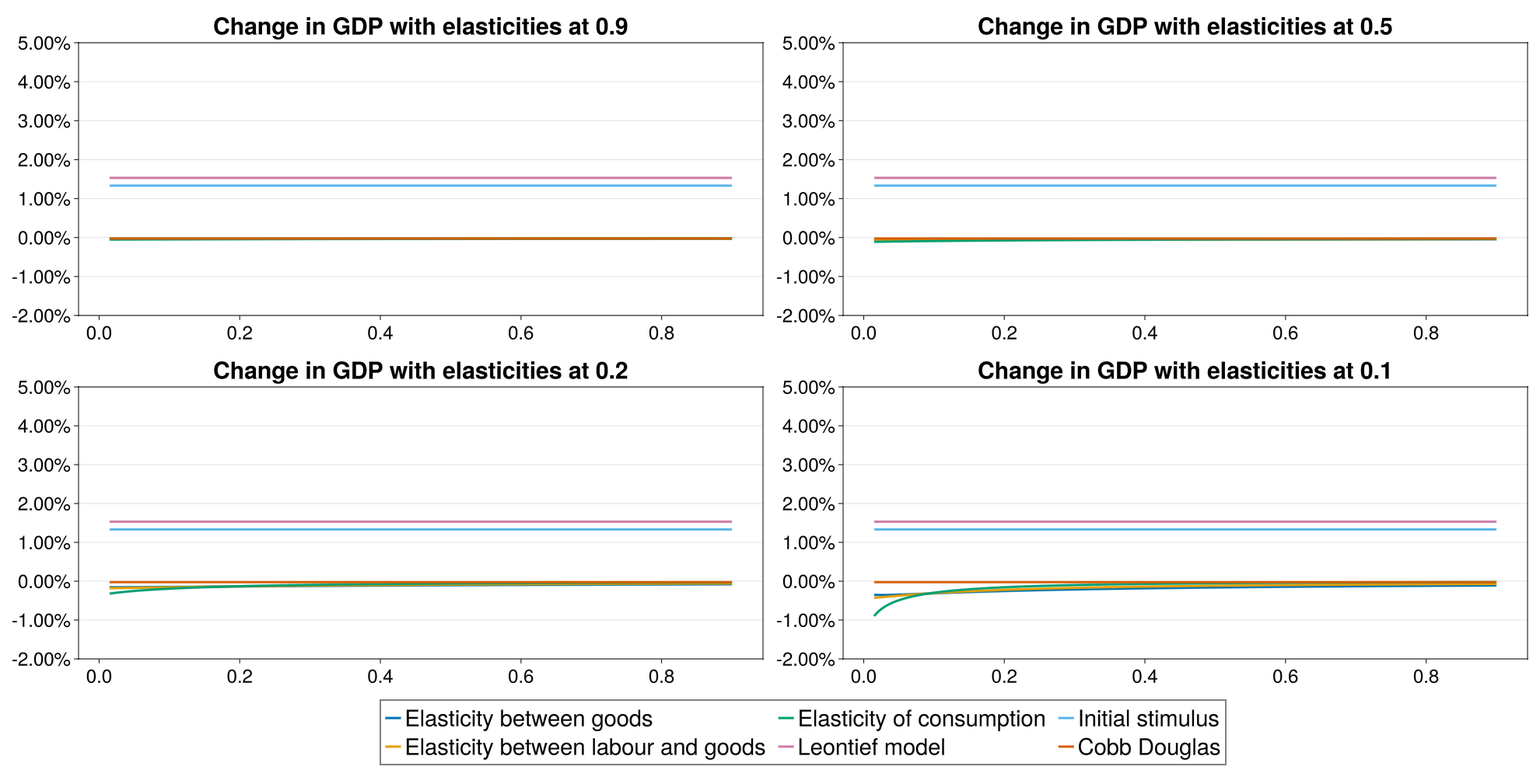
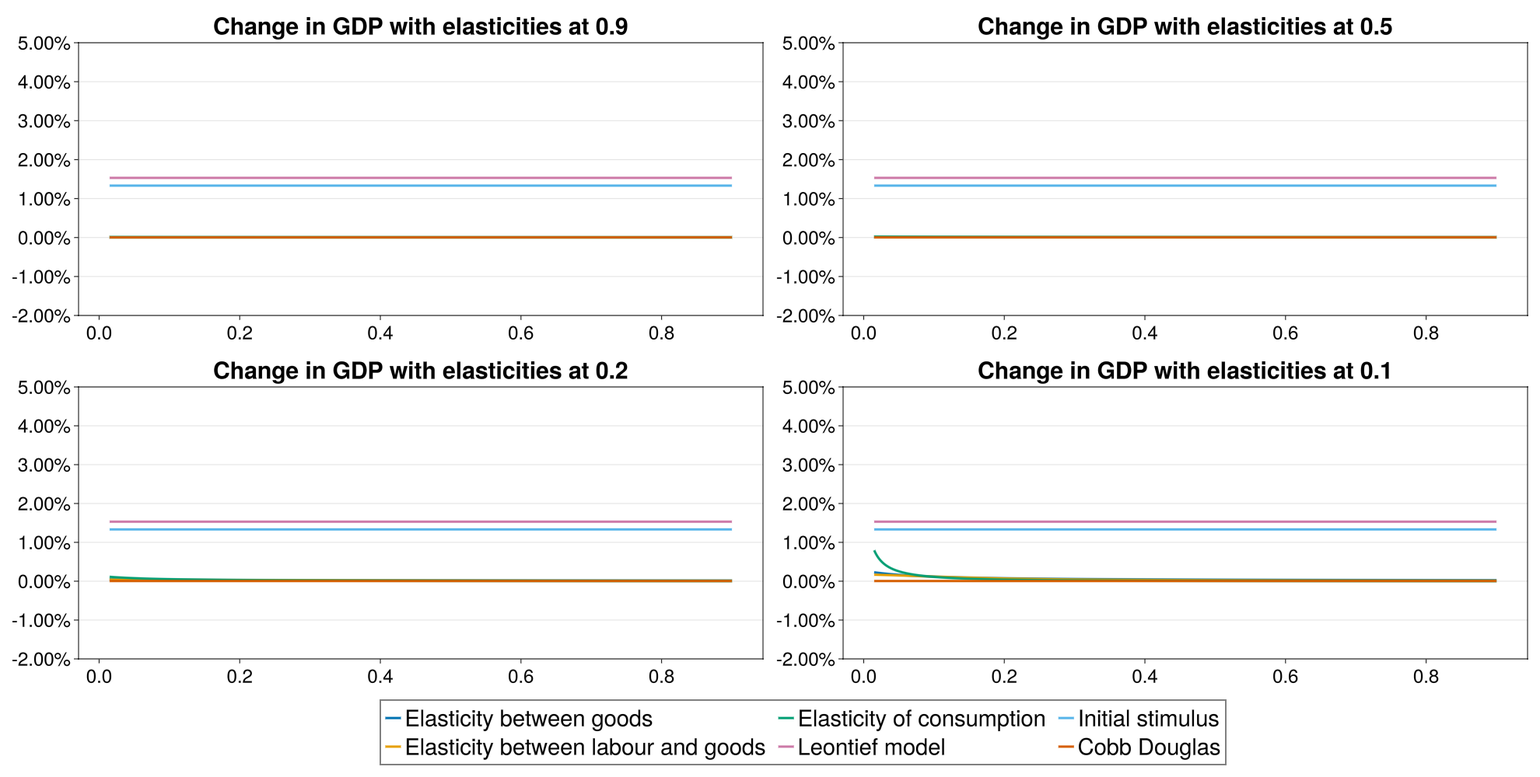
use different index for gdp

diff --git a/paper/submission-metro/submission.tex b/paper/submission-metro/submission.tex
@@ -414,14 +414,22 @@ As all prices are initially normalized to one, any subsequent price changes due 
 \end{align}
 
 
-and choose the CES consumer price index as the numeraire:$$
-\text{CPI} = \left( \sum_{u=1}^n \omega_{0u} p_u^{\theta  -1} \right)^{\frac{1}{\theta - 1}}.
-$$
-Calculating GDP directly using these post-shock prices would yield a nominal GDP measure. To obtain real GDP, one typically employs a price index such as the Laspeyres or Paasche index. We use the Laspeyres index, so that GDP is computed as
-$$
-\text{GDP} = \frac{\sum_{s=1}^n p_s \post c_s}{\sum_{s=1}^n p_s  c_s}
-$$
-which measures the change in consumption valued at pre-shock prices, providing a meaningful comparison of real economic activity before and after the shock.
+and choose the CES consumer price index as the numeraire:
+\begin{align}
+\text{CPI} = \left( \sum_{s=1}^n \beta_s p_s^{1-\sigma} \right)^{\frac{1}{1-\sigma}}.
+\end{align}
+Calculating GDP directly using post-shock prices would yield a nominal GDP measure.
+With stable homothetic final demand, real GDP can equivalently be measured by the constant-returns final-demand aggregator or by deflating nominal expenditure with its ideal CES price index. In our application, however, the shock changes the composition of final demand. Following \citet{BF2022}, we therefore measure the finite change in real GDP with the T\"ornqvist approximation to the Divisia quantity index. Let
+\begin{align}
+  s_{st}:=\frac{p_{st}c_{st}}{\sum_{r=1}^n p_{rt}c_{rt}}
+\end{align}
+denote sector $s$'s share in final expenditure in equilibrium $t\in\{0,1\}$. The real-GDP index is
+\begin{align}
+  \log\left(\frac{Y_1}{Y_0}\right)
+  =\sum_{s=1}^n \frac{s_{s0}+s_{s1}}{2}
+  \log\left(\frac{c_{s1}}{c_{s0}}\right).
+\end{align}
+This chain-weighted measure removes changes in prices while allowing expenditure weights to adjust between equilibria. Because the composition of final demand changes, it should be interpreted as a positive measure of real activity rather than as an exact welfare index.
 While this basic formal setup obviously differs from the Leontief model presented in Section~\ref{sec:leontief} in many details,
 a major practical difference in applying these models also emerges from the underlying paradigmatic perspectives:
 loosely spoken, the Leontief model follows a 'demand-side view', where production structures are assumed constant and final demands change exogenously. In contrast, general equilibrium approaches will start from a 'supply-side view', where economic changes arise from changes in the exogenous parameters -- like production functions, technology or endowments -- and demand will respond.   
@@ -508,11 +516,11 @@ In this vein, the panel in Figure \ref{fig:elasticity-gradient} shows estimated 
     \label{fig:elasticity-gradient}
 \end{figure}
 
-An overall inspection of the results show that in this comparison the standard Leontief approach delivers the largest GDP-estimates -- on this basis GDP is expected to grow by about 1.5\%, which is equivalent to a multiplier of 1.15 given that the initial investment impulse was specified to be 40.337 bn. €, about 1.3\% of GDP. In contrast, the Cobb-Douglas specification predicts a small reduction in GDP that results from efficiency-losses arising from the increase in green investment. These losses are due to the fact that the imposed green investment leads to a forced reallocation of intermediates and production factors towards the expanding sectors, which alters an already optimal allocation and, hence, induces inefficiencies. In turn, real output decreases slightly and the major macroeconomic impact of a green investment demand shock in this framework is to induce sector-specific inflationary pressures.
+An overall inspection of the results shows that in this comparison the standard Leontief approach delivers the largest GDP estimate -- on this basis GDP is expected to grow by about 1.5\%, which is equivalent to a multiplier of 1.15 given that the initial investment impulse was specified to be 40.337 bn. €, about 1.3\% of GDP. In contrast, the Cobb-Douglas specification predicts virtually no change in real GDP (about 0.005\%). With sector-specific primary-factor supplies fixed, the imposed green investment reallocates intermediates and final demand and changes relative prices, but it does not materially expand aggregate factor input. The main macroeconomic impact of the demand shock in this closure is therefore sector-specific price pressure rather than aggregate real growth.
 
-With regard to how changes in assumptions on substitution elasticities impact on final outcomes Figure \ref{fig:elasticity-gradient} indicates that real GDP is typically increasing in all three elasticities employed -- the higher the chosen elasticities, the higher are the respective GDP-estimates. This finding reproduces the intuition that easier substitution will lead to higher (aggregate) output and, hence, CES-based estimates are consistently lower than their Cobb-Douglas counterparts.
+With regard to how assumptions on substitution elasticities affect final outcomes, Figure \ref{fig:elasticity-gradient} shows that the aggregate response remains close to zero over most of the parameter space. There is no common monotonic relationship between easier substitution and the T\"ornqvist real-GDP index. Sensitivity becomes visible mainly when several elasticities are simultaneously very low; in particular, stronger complementarity in final demand can then increase the measured quantity response. Thus, changing substitution elasticities alone does not generally move the CGE estimate close to the IO result.
 
-Against this backdrop we concede that the introduction of Leontief-like properties in the production function helps bridging paradigmatic cleavages on a level of conceptual foundations -- e.g. with respect to the question how to adequately represent production processes. However, we find that introducing such a conceptual shift in neoclassical IO-models will actually serve to increase the gap between both approaches in terms of predicted outcomes. This result is not too surprising when taking into account that the assumption of a Leontief technology implies less flexibility as compared to a Cobb-Douglas technology. Hence, in the context of assumptions on substitutability neoclassical approaches are more optimistic than the heterodox archetype: viewed in isolation greater substitutability comes with higher prospects for growth in case of demand shocks and, correspondingly, leads to a more positive assessment of fiscal intervention in terms of forced green investment. However, this relatively more optimistic stance does in no way compensate for the fact that the estimated growth effects remain negative, which is effectively driven by assumptions on capacity constraints. However, before turning to this key aspect in section \ref{sec:labor} further below, we first inspect structural differences between model outcomes on a more granular level.
+Against this backdrop we concede that the introduction of Leontief-like properties in the production function helps bridging paradigmatic cleavages on a level of conceptual foundations -- e.g. with respect to the question how to adequately represent production processes. In terms of predicted aggregate outcomes, however, the effects are neither large nor uniformly directed. Some highly complementary specifications move the estimate modestly towards the IO result, but for most parameter values the binding capacity constraint keeps aggregate growth close to zero and far below the IO result. Before turning to this key aspect in section \ref{sec:labor} further below, we first inspect structural differences between model outcomes on a more granular level.
 
 \subsection{The effect of a demand-shock in inter-paradigmatic comparison?}
 
@@ -537,7 +545,7 @@ In general, we observe the theoretically expected positive correlation between q
     \label{fig:sectoral-changes}
 \end{figure}
 
-Finally, by assessing changes in sectoral production after the demand shock in Figure \ref{fig:sectoral-changes}, we find that the output adjustment approach will lead to an expansion of almost all sectors, while the general equilibrium approach leads to a reduction of gross output in the large majority of sectors, that are not directly affected by the demand shock. Moreover, the shock also depresses gross output and final consumption associated with two of the shocked sectors (in line with Figure \ref{fig:comparison-sec4} above, which focuses on final demand only). This reproduces the finding from section \ref{subsec:CGE_elasticity} that a demand shock will depress real GDP on a sectoral level as the (comparatively lower) average expansion of shocked sectors does under no conditions fully compensate for the reduction in the production of unaffected sectors. Notwithstanding this overall pattern, the complex substitution dynamics implied the CGE approach lead to exceptional outcomes in specific sectors. The most obvious idiosyncratic outcome occurs in two sectors that are not shocked –– \textit{building construction works (sector 33 )} and \textit{civil engineering works (sector 34)} --, but, rather, massively expand their intermediate goods production at the expense of final outputs, which represents an over-proportional intersectoral crowding-out effect. In other words, intermediary goods from these sectors are in extremely high demand due to the enforced shift in final expenditures. For both of these sectors the expansion in intermediate goods production is so strong, that these sectors expand more strongly than in the Leontief case and thereby partially compensate for the lack of freely available workers in shocked sectors.
+Finally, by assessing changes in sectoral production after the demand shock in Figure \ref{fig:sectoral-changes}, we find that the output adjustment approach will lead to an expansion of almost all sectors, while the general equilibrium approach leads to a reduction of gross output in the large majority of sectors that are not directly affected by the demand shock. Moreover, the shock also depresses gross output and final consumption associated with two of the shocked sectors (in line with Figure \ref{fig:comparison-sec4} above, which focuses on final demand only). These heterogeneous sectoral movements largely offset one another in the T\"ornqvist aggregate, producing the near-zero real-GDP response reported above. Notwithstanding this overall pattern, the complex substitution dynamics implied by the CGE approach lead to exceptional outcomes in specific sectors. The most obvious idiosyncratic outcome occurs in two sectors that are not shocked –– \textit{building construction works (sector 33 )} and \textit{civil engineering works (sector 34)} --, but, rather, massively expand their intermediate goods production at the expense of final outputs, which represents an over-proportional intersectoral crowding-out effect. In other words, intermediary goods from these sectors are in extremely high demand due to the enforced shift in final expenditures. For both of these sectors the expansion in intermediate goods production is so strong, that these sectors expand more strongly than in the Leontief case and thereby partially compensate for the lack of freely available workers in shocked sectors.
 
 As already indicated, we observe that the change in assumptions with regard to production technology, that does represent a step towards a more heterodox perspective, does not contribute to closing the paradigmatic gap in terms of results. As this exemplary analysis shows, the neoclassical outcome is mostly characterized by the generally constraining scarcity of factors that rationalizes any directed exogenous demand shock as an additional burden, requiring the potentially costly or inefficient reallocation of scarce production factors. By moving towards a more Leontief-like understanding of production processes such adaption and reallocation actually becomes harder to accomplish. Hence, this axiomatic variation in isolation has the curious effect to increase paradigmatic distance in terms results, although it reduces the same distance on the level of assumptions.
 
@@ -604,7 +612,7 @@ Hence, this second empirical application is based on a different -- and conceptu
 
 Again we observe that the overall magnitude of growth estimated by the CGE model is largely governed by the allocated labor slack as is illustrated by Figure \ref{fig:panel_ls_emp}. However, the misalignment between exogenous changes in final demand and available factors is reflected by the fact that GDP results are more sensitive to parameter choices on elasticities as compared to the application in section \ref{subsec:capconstraint1}. Also this misalignment reappears on a sectoral level, so that the corresponding results reproduce the patterns already found in section \ref{sec:ces} .
 
-Nonetheless, on a general level this example again illustrates how the introduction of labor slack can lead to more optimistic results in terms of GDP growth. The key requirement is the willingness to assume that such an expansion of the labor force is indeed a plausible reaction -- either due to labor market considerations or as a general response to increased effective demand. While this feature is not truly surprising it shows how modifying dominant convictions on the role and modeling of capacity constraints indeed opens up a shared realm, in which the simplistic juxtaposition of an 'expansionary' Leontief-approach and a 'contractionary' CGE-perspective becomes subject to a more nuanced perspective that allows for pragmatically interpreting labor slack as a moderating variable to explore some shared ground between these two competing visions of the economy.
+Nonetheless, on a general level this example again illustrates how the introduction of labor slack can lead to more optimistic results in terms of GDP growth. The key requirement is the willingness to assume that such an expansion of the labor force is indeed a plausible reaction -- either due to labor market considerations or as a general response to increased effective demand. While this feature is not truly surprising it shows how modifying dominant convictions on the role and modeling of capacity constraints indeed opens up a shared realm, in which the simplistic juxtaposition of an 'expansionary' Leontief approach and a near-zero-growth CGE perspective becomes subject to a more nuanced perspective that allows for pragmatically interpreting labor slack as a moderating variable to explore some shared ground between these two competing visions of the economy.
 
 
 \begin{figure}

diff --git a/paper/main.tex b/paper/main.tex
@@ -412,14 +412,21 @@ As all prices are initially normalized to one, any subsequent price changes due 
 \end{align}
 
 
-and choose the CES consumer price index as the numeraire:$$
-\text{CPI} = \left( \sum_{u=1}^n \omega_{0u} p_u^{\theta  -1} \right)^{\frac{1}{\theta - 1}}.
-$$
-Calculating GDP directly using these post-shock prices would yield a nominal GDP measure. To obtain real GDP, one typically employs a price index such as the Laspeyres or Paasche index. We use the Laspeyres index, so that GDP is computed as
-$$
-\text{GDP} = \frac{\sum_{s=1}^n p_s \post c_s}{\sum_{s=1}^n p_s  c_s}
-$$
-which measures the change in consumption valued at pre-shock prices, providing a meaningful comparison of real economic activity before and after the shock.
+and choose the CES consumer price index as the numeraire:
+\begin{align}
+\text{CPI} = \left( \sum_{s=1}^n \beta_s p_s^{1-\sigma} \right)^{\frac{1}{1-\sigma}}.
+\end{align}
+Calculating GDP directly using post-shock prices would yield a nominal GDP measure. With stable homothetic final demand, real GDP can equivalently be measured by the constant-returns final-demand aggregator or by deflating nominal expenditure with its ideal CES price index. In our application, however, the shock changes the composition of final demand. Following \citet{BF2022}, we therefore measure the finite change in real GDP with the T\"ornqvist approximation to the Divisia quantity index. Let
+\begin{align}
+  s_{st}:=\frac{p_{st}c_{st}}{\sum_{r=1}^n p_{rt}c_{rt}}
+\end{align}
+denote sector $s$'s share in final expenditure in equilibrium $t\in\{0,1\}$. The real-GDP index is
+\begin{align}
+  \log\left(\frac{Y_1}{Y_0}\right)
+  =\sum_{s=1}^n \frac{s_{s0}+s_{s1}}{2}
+  \log\left(\frac{c_{s1}}{c_{s0}}\right).
+\end{align}
+This chain-weighted measure removes changes in prices while allowing expenditure weights to adjust between equilibria. Because the composition of final demand changes, it should be interpreted as a positive measure of real activity rather than as an exact welfare index.
 While this basic formal setup obviously differs from the Leontief model presented in Section~\ref{sec:leontief} in many details,
 a major practical difference in applying these models also emerges from the underlying paradigmatic perspectives:
 loosely spoken, the Leontief model follows a 'demand-side view', where production structures are assumed constant and final demands change exogenously. In contrast, general equilibrium approaches will start from a 'supply-side view', where economic changes arise from changes in the exogenous parameters -- like production functions, technology or endowments -- and demand will respond.   
@@ -506,11 +513,11 @@ In this vein, the panel in Figure \ref{fig:elasticity-gradient} shows estimated 
     \label{fig:elasticity-gradient}
 \end{figure}
 
-An overall inspection of the results show that in this comparison the standard Leontief approach delivers the largest GDP-estimates -- on this basis GDP is expected to grow by about 1.5\%, which is equivalent to a multiplier of 1.15 given that the initial investment impulse was specified to be 40.337 bn. €, about 1.3\% of GDP. In contrast, the Cobb-Douglas specification predicts a small reduction in GDP that results from efficiency-losses arising from the increase in green investment. These losses are due to the fact that the imposed green investment leads to a forced reallocation of intermediates and production factors towards the expanding sectors, which alters an already optimal allocation and, hence, induces inefficiencies. In turn, real output decreases slightly and the major macroeconomic impact of a green investment demand shock in this framework is to induce sector-specific inflationary pressures.
+An overall inspection of the results shows that in this comparison the standard Leontief approach delivers the largest GDP estimate -- on this basis GDP is expected to grow by about 1.5\%, which is equivalent to a multiplier of 1.15 given that the initial investment impulse was specified to be 40.337 bn. €, about 1.3\% of GDP. In contrast, the Cobb-Douglas specification predicts virtually no change in real GDP (about 0.005\%). With sector-specific primary-factor supplies fixed, the imposed green investment reallocates intermediates and final demand and changes relative prices, but it does not materially expand aggregate factor input. The main macroeconomic impact of the demand shock in this closure is therefore sector-specific price pressure rather than aggregate real growth.
 
-With regard to how changes in assumptions on substitution elasticities impact on final outcomes Figure \ref{fig:elasticity-gradient} indicates that real GDP is typically increasing in all three elasticities employed -- the higher the chosen elasticities, the higher are the respective GDP-estimates. This finding reproduces the intuition that easier substitution will lead to higher (aggregate) output and, hence, CES-based estimates are consistently lower than their Cobb-Douglas counterparts.
+With regard to how assumptions on substitution elasticities affect final outcomes, Figure \ref{fig:elasticity-gradient} shows that the aggregate response remains close to zero over most of the parameter space. There is no common monotonic relationship between easier substitution and the T\"ornqvist real-GDP index. Sensitivity becomes visible mainly when several elasticities are simultaneously very low; in particular, stronger complementarity in final demand can then increase the measured quantity response. Thus, changing substitution elasticities alone does not generally move the CGE estimate close to the IO result.
 
-Against this backdrop we concede that the introduction of Leontief-like properties in the production function helps bridging paradigmatic cleavages on a level of conceptual foundations -- e.g. with respect to the question how to adequately represent production processes. However, we find that introducing such a conceptual shift in neoclassical IO-models will actually serve to increase the gap between both approaches in terms of predicted outcomes. This result is not too surprising when taking into account that the assumption of a Leontief technology implies less flexibility as compared to a Cobb-Douglas technology. Hence, in the context of assumptions on substitutability neoclassical approaches are more optimistic than the heterodox archetype: viewed in isolation greater substitutability comes with higher prospects for growth in case of demand shocks and, correspondingly, leads to a more positive assessment of fiscal intervention in terms of forced green investment. However, this relatively more optimistic stance does in no way compensate for the fact that the estimated growth effects remain negative, which is effectively driven by assumptions on capacity constraints. However, before turning to this key aspect in section \ref{sec:labor} further below, we first inspect structural differences between model outcomes on a more granular level.
+Against this backdrop we concede that the introduction of Leontief-like properties in the production function helps bridging paradigmatic cleavages on a level of conceptual foundations -- e.g. with respect to the question how to adequately represent production processes. In terms of predicted aggregate outcomes, however, the effects are neither large nor uniformly directed. Some highly complementary specifications move the estimate modestly towards the IO result, but for most parameter values the binding capacity constraint keeps aggregate growth close to zero and far below the IO result. Before turning to this key aspect in section \ref{sec:labor} further below, we first inspect structural differences between model outcomes on a more granular level.
 
 \subsection{The effect of a demand-shock in inter-paradigmatic comparison?}
 
@@ -535,7 +542,7 @@ In general, we observe the theoretically expected positive correlation between q
     \label{fig:sectoral-changes}
 \end{figure}
 
-Finally, by assessing changes in sectoral production after the demand shock in Figure \ref{fig:sectoral-changes}, we find that the output adjustment approach will lead to an expansion of almost all sectors, while the general equilibrium approach leads to a reduction of gross output in the large majority of sectors, that are not directly affected by the demand shock. Moreover, the shock also depresses gross output and final consumption associated with two of the shocked sectors (in line with Figure \ref{fig:comparison-sec4} above, which focuses on final demand only). This reproduces the finding from section \ref{subsec:CGE_elasticity} that a demand shock will depress real GDP on a sectoral level as the (comparatively lower) average expansion of shocked sectors does under no conditions fully compensate for the reduction in the production of unaffected sectors. Notwithstanding this overall pattern, the complex substitution dynamics implied the CGE approach lead to exceptional outcomes in specific sectors. The most obvious idiosyncratic outcome occurs in two sectors that are not shocked –– \textit{building construction works (sector 33 )} and \textit{civil engineering works (sector 34)} --, but, rather, massively expand their intermediate goods production at the expense of final outputs, which represents an over-proportional intersectoral crowding-out effect. In other words, intermediary goods from these sectors are in extremely high demand due to the enforced shift in final expenditures. For both of these sectors the expansion in intermediate goods production is so strong, that these sectors expand more strongly than in the Leontief case and thereby partially compensate for the lack of freely available workers in shocked sectors.
+Finally, by assessing changes in sectoral production after the demand shock in Figure \ref{fig:sectoral-changes}, we find that the output adjustment approach will lead to an expansion of almost all sectors, while the general equilibrium approach leads to a reduction of gross output in the large majority of sectors that are not directly affected by the demand shock. Moreover, the shock also depresses gross output and final consumption associated with two of the shocked sectors (in line with Figure \ref{fig:comparison-sec4} above, which focuses on final demand only). These heterogeneous sectoral movements largely offset one another in the T\"ornqvist aggregate, producing the near-zero real-GDP response reported above. Notwithstanding this overall pattern, the complex substitution dynamics implied by the CGE approach lead to exceptional outcomes in specific sectors. The most obvious idiosyncratic outcome occurs in two sectors that are not shocked –– \textit{building construction works (sector 33 )} and \textit{civil engineering works (sector 34)} --, but, rather, massively expand their intermediate goods production at the expense of final outputs, which represents an over-proportional intersectoral crowding-out effect. In other words, intermediary goods from these sectors are in extremely high demand due to the enforced shift in final expenditures. For both of these sectors the expansion in intermediate goods production is so strong, that these sectors expand more strongly than in the Leontief case and thereby partially compensate for the lack of freely available workers in shocked sectors.
 
 As already indicated, we observe that the change in assumptions with regard to production technology, that does represent a step towards a more heterodox perspective, does not contribute to closing the paradigmatic gap in terms of results. As this exemplary analysis shows, the neoclassical outcome is mostly characterized by the generally constraining scarcity of factors that rationalizes any directed exogenous demand shock as an additional burden, requiring the potentially costly or inefficient reallocation of scarce production factors. By moving towards a more Leontief-like understanding of production processes such adaption and reallocation actually becomes harder to accomplish. Hence, this axiomatic variation in isolation has the curious effect to increase paradigmatic distance in terms results, although it reduces the same distance on the level of assumptions.
 
@@ -602,7 +609,7 @@ Hence, this second empirical application is based on a different -- and conceptu
 
 Again we observe that the overall magnitude of growth estimated by the CGE model is largely governed by the allocated labor slack as is illustrated by Figure \ref{fig:panel_ls_emp}. However, the misalignment between exogenous changes in final demand and available factors is reflected by the fact that GDP results are more sensitive to parameter choices on elasticities as compared to the application in section \ref{subsec:capconstraint1}. Also this misalignment reappears on a sectoral level, so that the corresponding results reproduce the patterns already found in section \ref{sec:ces} .
 
-Nonetheless, on a general level this example again illustrates how the introduction of labor slack can lead to more optimistic results in terms of GDP growth. The key requirement is the willingness to assume that such an expansion of the labor force is indeed a plausible reaction -- either due to labor market considerations or as a general response to increased effective demand. While this feature is not truly surprising it shows how modifying dominant convictions on the role and modeling of capacity constraints indeed opens up a shared realm, in which the simplistic juxtaposition of an 'expansionary' Leontief-approach and a 'contractionary' CGE-perspective becomes subject to a more nuanced perspective that allows for pragmatically interpreting labor slack as a moderating variable to explore some shared ground between these two competing visions of the economy.
+Nonetheless, on a general level this example again illustrates how the introduction of labor slack can lead to more optimistic results in terms of GDP growth. The key requirement is the willingness to assume that such an expansion of the labor force is indeed a plausible reaction -- either due to labor market considerations or as a general response to increased effective demand. While this feature is not truly surprising it shows how modifying dominant convictions on the role and modeling of capacity constraints indeed opens up a shared realm, in which the simplistic juxtaposition of an 'expansionary' Leontief approach and a near-zero-growth CGE perspective becomes subject to a more nuanced perspective that allows for pragmatically interpreting labor slack as a moderating variable to explore some shared ground between these two competing visions of the economy.
 
 
 \begin{figure}

diff --git a/paper/submission-metro/submission-anon.tex b/paper/submission-metro/submission-anon.tex
@@ -411,14 +411,21 @@ As all prices are initially normalized to one, any subsequent price changes due 
 \end{align}
 
 
-and choose the CES consumer price index as the numeraire:$$
-\text{CPI} = \left( \sum_{u=1}^n \omega_{0u} p_u^{\theta  -1} \right)^{\frac{1}{\theta - 1}}.
-$$
-Calculating GDP directly using these post-shock prices would yield a nominal GDP measure. To obtain real GDP, one typically employs a price index such as the Laspeyres or Paasche index. We use the Laspeyres index, so that GDP is computed as
-$$
-\text{GDP} = \frac{\sum_{s=1}^n p_s \post c_s}{\sum_{s=1}^n p_s  c_s}
-$$
-which measures the change in consumption valued at pre-shock prices, providing a meaningful comparison of real economic activity before and after the shock.
+and choose the CES consumer price index as the numeraire:
+\begin{align}
+\text{CPI} = \left( \sum_{s=1}^n \beta_s p_s^{1-\sigma} \right)^{\frac{1}{1-\sigma}}.
+\end{align}
+Calculating GDP directly using post-shock prices would yield a nominal GDP measure. With stable homothetic final demand, real GDP can equivalently be measured by the constant-returns final-demand aggregator or by deflating nominal expenditure with its ideal CES price index. In our application, however, the shock changes the composition of final demand. Following \citet{BF2022}, we therefore measure the finite change in real GDP with the T\"ornqvist approximation to the Divisia quantity index. Let
+\begin{align}
+  s_{st}:=\frac{p_{st}c_{st}}{\sum_{r=1}^n p_{rt}c_{rt}}
+\end{align}
+denote sector $s$'s share in final expenditure in equilibrium $t\in\{0,1\}$. The real-GDP index is
+\begin{align}
+  \log\left(\frac{Y_1}{Y_0}\right)
+  =\sum_{s=1}^n \frac{s_{s0}+s_{s1}}{2}
+  \log\left(\frac{c_{s1}}{c_{s0}}\right).
+\end{align}
+This chain-weighted measure removes changes in prices while allowing expenditure weights to adjust between equilibria. Because the composition of final demand changes, it should be interpreted as a positive measure of real activity rather than as an exact welfare index.
 While this basic formal setup obviously differs from the Leontief model presented in Section~\ref{sec:leontief} in many details,
 a major practical difference in applying these models also emerges from the underlying paradigmatic perspectives:
 loosely spoken, the Leontief model follows a 'demand-side view', where production structures are assumed constant and final demands change exogenously. In contrast, general equilibrium approaches will start from a 'supply-side view', where economic changes arise from changes in the exogenous parameters -- like production functions, technology or endowments -- and demand will respond.   
@@ -505,11 +512,11 @@ In this vein, the panel in Figure \ref{fig:elasticity-gradient} shows estimated 
     \label{fig:elasticity-gradient}
 \end{figure}
 
-An overall inspection of the results show that in this comparison the standard Leontief approach delivers the largest GDP-estimates -- on this basis GDP is expected to grow by about 1.5\%, which is equivalent to a multiplier of 1.15 given that the initial investment impulse was specified to be 40.337 bn. €, about 1.3\% of GDP. In contrast, the Cobb-Douglas specification predicts a small reduction in GDP that results from efficiency-losses arising from the increase in green investment. These losses are due to the fact that the imposed green investment leads to a forced reallocation of intermediates and production factors towards the expanding sectors, which alters an already optimal allocation and, hence, induces inefficiencies. In turn, real output decreases slightly and the major macroeconomic impact of a green investment demand shock in this framework is to induce sector-specific inflationary pressures.
+An overall inspection of the results shows that in this comparison the standard Leontief approach delivers the largest GDP estimate -- on this basis GDP is expected to grow by about 1.5\%, which is equivalent to a multiplier of 1.15 given that the initial investment impulse was specified to be 40.337 bn. €, about 1.3\% of GDP. In contrast, the Cobb-Douglas specification predicts virtually no change in real GDP (about 0.005\%). With sector-specific primary-factor supplies fixed, the imposed green investment reallocates intermediates and final demand and changes relative prices, but it does not materially expand aggregate factor input. The main macroeconomic impact of the demand shock in this closure is therefore sector-specific price pressure rather than aggregate real growth.
 
-With regard to how changes in assumptions on substitution elasticities impact on final outcomes Figure \ref{fig:elasticity-gradient} indicates that real GDP is typically increasing in all three elasticities employed -- the higher the chosen elasticities, the higher are the respective GDP-estimates. This finding reproduces the intuition that easier substitution will lead to higher (aggregate) output and, hence, CES-based estimates are consistently lower than their Cobb-Douglas counterparts.
+With regard to how assumptions on substitution elasticities affect final outcomes, Figure \ref{fig:elasticity-gradient} shows that the aggregate response remains close to zero over most of the parameter space. There is no common monotonic relationship between easier substitution and the T\"ornqvist real-GDP index. Sensitivity becomes visible mainly when several elasticities are simultaneously very low; in particular, stronger complementarity in final demand can then increase the measured quantity response. Thus, changing substitution elasticities alone does not generally move the CGE estimate close to the IO result.
 
-Against this backdrop we concede that the introduction of Leontief-like properties in the production function helps bridging paradigmatic cleavages on a level of conceptual foundations -- e.g. with respect to the question how to adequately represent production processes. However, we find that introducing such a conceptual shift in neoclassical IO-models will actually serve to increase the gap between both approaches in terms of predicted outcomes. This result is not too surprising when taking into account that the assumption of a Leontief technology implies less flexibility as compared to a Cobb-Douglas technology. Hence, in the context of assumptions on substitutability neoclassical approaches are more optimistic than the heterodox archetype: viewed in isolation greater substitutability comes with higher prospects for growth in case of demand shocks and, correspondingly, leads to a more positive assessment of fiscal intervention in terms of forced green investment. However, this relatively more optimistic stance does in no way compensate for the fact that the estimated growth effects remain negative, which is effectively driven by assumptions on capacity constraints. However, before turning to this key aspect in section \ref{sec:labor} further below, we first inspect structural differences between model outcomes on a more granular level.
+Against this backdrop we concede that the introduction of Leontief-like properties in the production function helps bridging paradigmatic cleavages on a level of conceptual foundations -- e.g. with respect to the question how to adequately represent production processes. In terms of predicted aggregate outcomes, however, the effects are neither large nor uniformly directed. Some highly complementary specifications move the estimate modestly towards the IO result, but for most parameter values the binding capacity constraint keeps aggregate growth close to zero and far below the IO result. Before turning to this key aspect in section \ref{sec:labor} further below, we first inspect structural differences between model outcomes on a more granular level.
 
 \subsection{The effect of a demand-shock in inter-paradigmatic comparison?}
 
@@ -534,7 +541,7 @@ In general, we observe the theoretically expected positive correlation between q
     \label{fig:sectoral-changes}
 \end{figure}
 
-Finally, by assessing changes in sectoral production after the demand shock in Figure \ref{fig:sectoral-changes}, we find that the output adjustment approach will lead to an expansion of almost all sectors, while the general equilibrium approach leads to a reduction of gross output in the large majority of sectors, that are not directly affected by the demand shock. Moreover, the shock also depresses gross output and final consumption associated with two of the shocked sectors (in line with Figure \ref{fig:comparison-sec4} above, which focuses on final demand only). This reproduces the finding from section \ref{subsec:CGE_elasticity} that a demand shock will depress real GDP on a sectoral level as the (comparatively lower) average expansion of shocked sectors does under no conditions fully compensate for the reduction in the production of unaffected sectors. Notwithstanding this overall pattern, the complex substitution dynamics implied the CGE approach lead to exceptional outcomes in specific sectors. The most obvious idiosyncratic outcome occurs in two sectors that are not shocked –– \textit{building construction works (sector 33 )} and \textit{civil engineering works (sector 34)} --, but, rather, massively expand their intermediate goods production at the expense of final outputs, which represents an over-proportional intersectoral crowding-out effect. In other words, intermediary goods from these sectors are in extremely high demand due to the enforced shift in final expenditures. For both of these sectors the expansion in intermediate goods production is so strong, that these sectors expand more strongly than in the Leontief case and thereby partially compensate for the lack of freely available workers in shocked sectors.
+Finally, by assessing changes in sectoral production after the demand shock in Figure \ref{fig:sectoral-changes}, we find that the output adjustment approach will lead to an expansion of almost all sectors, while the general equilibrium approach leads to a reduction of gross output in the large majority of sectors that are not directly affected by the demand shock. Moreover, the shock also depresses gross output and final consumption associated with two of the shocked sectors (in line with Figure \ref{fig:comparison-sec4} above, which focuses on final demand only). These heterogeneous sectoral movements largely offset one another in the T\"ornqvist aggregate, producing the near-zero real-GDP response reported above. Notwithstanding this overall pattern, the complex substitution dynamics implied by the CGE approach lead to exceptional outcomes in specific sectors. The most obvious idiosyncratic outcome occurs in two sectors that are not shocked –– \textit{building construction works (sector 33 )} and \textit{civil engineering works (sector 34)} --, but, rather, massively expand their intermediate goods production at the expense of final outputs, which represents an over-proportional intersectoral crowding-out effect. In other words, intermediary goods from these sectors are in extremely high demand due to the enforced shift in final expenditures. For both of these sectors the expansion in intermediate goods production is so strong, that these sectors expand more strongly than in the Leontief case and thereby partially compensate for the lack of freely available workers in shocked sectors.
 
 As already indicated, we observe that the change in assumptions with regard to production technology, that does represent a step towards a more heterodox perspective, does not contribute to closing the paradigmatic gap in terms of results. As this exemplary analysis shows, the neoclassical outcome is mostly characterized by the generally constraining scarcity of factors that rationalizes any directed exogenous demand shock as an additional burden, requiring the potentially costly or inefficient reallocation of scarce production factors. By moving towards a more Leontief-like understanding of production processes such adaption and reallocation actually becomes harder to accomplish. Hence, this axiomatic variation in isolation has the curious effect to increase paradigmatic distance in terms results, although it reduces the same distance on the level of assumptions.
 
@@ -601,7 +608,7 @@ Hence, this second empirical application is based on a different -- and conceptu
 
 Again we observe that the overall magnitude of growth estimated by the CGE model is largely governed by the allocated labor slack as is illustrated by Figure \ref{fig:panel_ls_emp}. However, the misalignment between exogenous changes in final demand and available factors is reflected by the fact that GDP results are more sensitive to parameter choices on elasticities as compared to the application in section \ref{subsec:capconstraint1}. Also this misalignment reappears on a sectoral level, so that the corresponding results reproduce the patterns already found in section \ref{sec:ces} .
 
-Nonetheless, on a general level this example again illustrates how the introduction of labor slack can lead to more optimistic results in terms of GDP growth. The key requirement is the willingness to assume that such an expansion of the labor force is indeed a plausible reaction -- either due to labor market considerations or as a general response to increased effective demand. While this feature is not truly surprising it shows how modifying dominant convictions on the role and modeling of capacity constraints indeed opens up a shared realm, in which the simplistic juxtaposition of an 'expansionary' Leontief-approach and a 'contractionary' CGE-perspective becomes subject to a more nuanced perspective that allows for pragmatically interpreting labor slack as a moderating variable to explore some shared ground between these two competing visions of the economy.
+Nonetheless, on a general level this example again illustrates how the introduction of labor slack can lead to more optimistic results in terms of GDP growth. The key requirement is the willingness to assume that such an expansion of the labor force is indeed a plausible reaction -- either due to labor market considerations or as a general response to increased effective demand. While this feature is not truly surprising it shows how modifying dominant convictions on the role and modeling of capacity constraints indeed opens up a shared realm, in which the simplistic juxtaposition of an 'expansionary' Leontief approach and a near-zero-growth CGE perspective becomes subject to a more nuanced perspective that allows for pragmatically interpreting labor slack as a moderating variable to explore some shared ground between these two competing visions of the economy.
 
 
 \begin{figure}

diff --git a/AGENTS.md b/AGENTS.md
@@ -1,0 +1,26 @@
+# Repository Guidelines
+
+## Project Structure & Module Organization
+
+`src/BeyondHulten.jl` defines the Julia module and includes the implementation files in `src/`. Keep model-specific logic in files such as `ces.jl`, `cobbdouglas.jl`, or `leontief.jl`; shared data structures and helpers belong in `interface.jl`, `solution.jl`, and `util.jl`. Tests live in `tests/`, with `tests/runtests.jl` as the package test entry point. Exploratory and replication work is stored in root-level and `Notebooks/` Jupyter notebooks. Input data belongs in the gitignored `data/` directory. Treat `Replication Files/` and `Dokumente/` as source/archive material, while `plots/` and `paper/pictures/` contain generated figures. Paper and presentation sources are under `paper/`.
+
+## Build, Test, and Development Commands
+
+- `julia --project=. -e 'using Pkg; Pkg.instantiate()'` installs the dependencies pinned in `Manifest.toml`.
+- `julia --project=. -e 'using BeyondHulten'` checks that the package loads and source includes resolve.
+- `julia --project=. -e 'using Pkg; Pkg.test()'` runs the test suite through `tests/runtests.jl`.
+- `julia --project=.` starts an interactive Julia session in the repository environment; use IJulia/Jupyter for notebooks.
+
+Julia 1.9 or newer is required. Some analyses also require an input-output CSV placed in `data/`; do not commit proprietary or machine-local datasets.
+
+## Coding Style & Naming Conventions
+
+Follow the existing Julia conventions: `CamelCase` for types (`Solution`, `CESElasticities`), lowercase `snake_case` for functions and variables (`read_data`, `real_gdp`), and a trailing `!` for mutating functions. Indent nested blocks consistently with surrounding code and avoid whitespace-only rewrites; tabs are common in current sources. Add docstrings to exported APIs and use explicit module imports when they clarify dependencies. No formatter or linter is currently enforced.
+
+## Testing Guidelines
+
+Use Julia's `Test` standard library. Add focused `@testset` blocks and name new files `test_<feature>.jl`; include them from `tests/runtests.jl`. Cover numerical results with tolerances (`isapprox`) rather than exact floating-point equality. Run both package loading and `Pkg.test()` before submitting changes.
+
+## Commit & Pull Request Guidelines
+
+Recent commits use short, imperative summaries such as `Add plotting functions...`, `Refactor...`, and `Fix...`; occasional `refactor:` prefixes are accepted. Keep commits focused and avoid mixing generated figures with model changes. Pull requests should explain the economic or computational change, list validation commands, identify required data, and link related issues. Include before/after figures when plotting output changes, but do not commit notebook checkpoint files.
